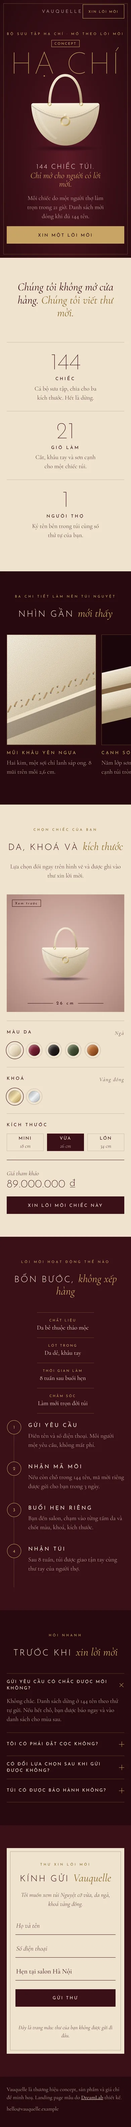
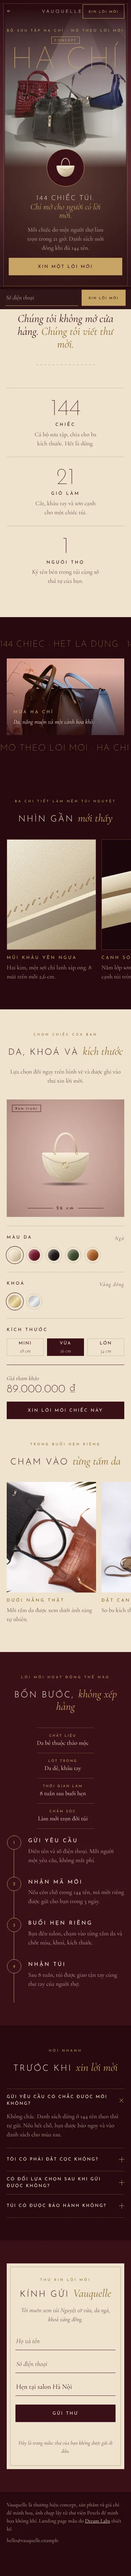
Landing Vauquelle: hero màn nhung mở ảnh thật, cảnh phóng ảnh toàn màn hình, khối ảnh buổi hẹn
Claude-Session: https://claude.ai/code/session_012QLWn7rvRysGvRwdv6upwG

diff --git a/demos/lux-lp-vauquelle.html b/demos/lux-lp-vauquelle.html
@@ -59,20 +59,40 @@ header .w{display:grid;grid-template-columns:1fr auto 1fr;align-items:center;hei
 .lg{font-family:var(--fd);font-weight:300;font-size:16px;letter-spacing:.5em;padding:2px 0 0 .5em;min-height:42px;display:flex;align-items:center}
 header .btn{justify-self:end}
 /* hero */
-.hero{position:relative;min-height:min(100svh,960px);padding:110px 0 var(--s6);display:grid;overflow:hidden;background:radial-gradient(ellipse at 50% 61.8%,#5C1A28 0,var(--bx) 46%,var(--bd) 100%)}
-.hero::before{content:"";position:absolute;inset:var(--s3);border:1px solid var(--ln);pointer-events:none;animation:fade var(--d6) var(--ease) .4s both}
-.hero .w{display:grid;grid-template-rows:auto 1fr auto;position:relative}
-.hero .cap{justify-content:center}
-.gw{position:absolute;left:0;right:0;top:6%;text-align:center;font-family:var(--fd);font-weight:100;font-size:clamp(89px,23vw,330px);line-height:1;letter-spacing:.04em;text-transform:uppercase;color:var(--br);opacity:.9;white-space:nowrap;margin:0}
+.hero{position:relative;min-height:max(640px,min(100svh,960px));padding:110px 0 var(--s6);display:grid;overflow:hidden;background:var(--bd);--o:.6;--pd:max(34px,3.4vw);--wi:calc(30vw - var(--pd) - 30px)}
+.hero::before{content:"";position:absolute;inset:var(--s3);border:1px solid var(--ln);pointer-events:none;z-index:3;animation:fade var(--d6) var(--ease) 1.8s both}
+.js .hero:not(.go) *,.hero.off *{animation-play-state:paused!important}
+.st{position:absolute;top:0;bottom:0;left:30vw;right:30vw;overflow:hidden}
+.st div{position:absolute;inset:50px -14px -56px}
+.st img{width:100%;height:100%;object-fit:cover;object-position:50% 72%;animation:kb 9s var(--ease) .4s both}
+.st::after{content:"";position:absolute;inset:0;background:linear-gradient(var(--bd) 5%,rgba(39,9,14,.8) 15%,rgba(58,15,23,.5) 34%,rgba(58,15,23,0) 56%,rgba(39,9,14,0) 89%,var(--bd))}
+@keyframes kb{from{transform:scale(1.16)}}
+.cu{position:absolute;top:0;bottom:0;width:50%;z-index:1;transform:scaleX(var(--o));animation:cu 2.4s cubic-bezier(.76,0,.18,1) .4s both;background:linear-gradient(rgba(18,3,10,.5),rgba(18,3,10,0) 26%,rgba(18,3,10,0) 62%,rgba(18,3,10,.66)),repeating-linear-gradient(90deg,#27090E 0,#4B1523 8%,#30101A 13%,#5C1A28 19%,#27090E 26%)}
+.cu.l{left:0;transform-origin:0 0}.cu.r{right:0;transform-origin:100% 0}
+.cu::after{content:"";position:absolute;top:0;bottom:0;left:100%;width:42px;background:linear-gradient(90deg,rgba(18,3,10,.6),transparent)}
+.cu.r::after{left:auto;right:100%;transform:scaleX(-1)}
+.cu::before{content:"";position:absolute;top:0;bottom:0;right:6px;width:1px;background:repeating-linear-gradient(var(--br) 0 6px,transparent 6px 11px);opacity:.7}
+.cu.r::before{right:auto;left:6px}
+@keyframes cu{from{transform:none}}
+.sl{position:absolute;left:50%;top:60%;width:1100px;height:1100px;margin:-550px;border-radius:50%;z-index:1;pointer-events:none;background:radial-gradient(closest-side,rgba(255,226,176,.24),rgba(255,226,176,.07) 52%,transparent);animation:fade 2.4s ease 1.2s both}
+@media(hover:none){.sl{animation:fade 2.4s ease 1.2s both,sw 11s ease-in-out infinite alternate}}
+@keyframes sw{from{transform:translate3d(-9%,3%,0)}to{transform:translate3d(9%,-4%,0)}}
+.hero .w{max-width:none;padding:0 var(--pd);display:grid;grid-template-rows:auto 1fr auto;position:relative;z-index:2}
+.hero .cap{justify-content:center;animation:fade var(--d6) var(--ease) 1.8s both}
+.gw{position:absolute;left:0;right:0;top:6%;text-align:center;font-family:var(--fd);font-weight:100;font-size:clamp(89px,min(23vw,36vh),330px);line-height:1;letter-spacing:.04em;text-transform:uppercase;color:var(--br);opacity:.9;white-space:nowrap;margin:0}
 .gw span{padding:.14em 0 .2em;margin:-.14em 0 -.2em}
-.bw{grid-row:2;display:grid;place-items:center;min-height:0;padding:var(--s4) 0}
-.bag{width:min(46vw,440px);overflow:visible;--l1:#FBF3E2;--l2:#E6D7BC;--l3:#B19C78;--st:#A8875A;--h1:#8A6A2C;--h2:#F3E2B0;--h3:#A07C3A;animation:rise var(--d6) var(--ease) .262s both,fl 6.86s ease-in-out 2s infinite alternate}
+@keyframes u2{from{transform:translateY(140%)}}
+.gw i{display:inline-block;animation:u2 1.7s var(--ease) calc(1.5s + var(--k,0)*.11s) both}.gw i:nth-child(3){margin-left:.3em}
+.bw{grid-row:2;align-self:end;width:var(--wi);margin-bottom:var(--s4);display:grid;justify-items:center;gap:var(--s3)}
+.bw .cap{justify-content:center}
+.bag{width:min(70%,25vh);overflow:visible;--l1:#FBF3E2;--l2:#E6D7BC;--l3:#B19C78;--st:#A8875A;--h1:#8A6A2C;--h2:#F3E2B0;--h3:#A07C3A;animation:rise var(--d6) var(--ease) 1.9s both,fl 6.86s ease-in-out 3.8s infinite alternate}
 @keyframes rise{from{opacity:0;transform:translateY(68px)}}
 @keyframes fl{to{transform:translateY(-10px) rotate(-.618deg)}}
 .bag .gl{transform-origin:260px 292px;animation:spin 6.86s linear infinite}
 @keyframes spin{to{transform:rotate(360deg)}}
-.hb{display:grid;grid-template-columns:1.618fr 1fr;gap:var(--s5);align-items:end;animation:fade var(--d6) var(--ease) .6s both}
-.hb h1{font-size:clamp(20px,2.6vw,33px);max-width:20ch}
+.hb{grid-row:3;display:grid;grid-template-columns:var(--wi) 1fr var(--wi);align-items:end;animation:fade var(--d6) var(--ease) 2.1s both}
+.hb div:last-child{grid-column:3}
+.hb h1{font-size:clamp(20px,2vw,33px);max-width:20ch}
 .hb h1 em{display:block}
 .hb div:last-child{justify-self:end;text-align:right;display:grid;gap:var(--s3);justify-items:end}
 .hb p{color:var(--mu);max-width:30ch}
@@ -91,6 +111,21 @@ h2{font-size:clamp(26px,3.6vw,42px);max-width:22ch}
 .nb div{padding:var(--s4) var(--s3) 0;text-align:center}.nb div+div{border-left:1px solid var(--ln)}
 .nb b{display:block;font-family:var(--fd);font-weight:100;font-size:clamp(68px,9vw,110px);line-height:1.1}
 .nb .u{display:block;margin-bottom:var(--s1)}.nb p{color:var(--mu);max-width:24ch;margin:0 auto}
+.stc{display:block;height:1px;width:min(178px,50%);margin:var(--s5) auto 0;background:repeating-linear-gradient(90deg,var(--br) 0 7px,transparent 7px 12px)}
+/* zoom */
+.zm{background:var(--bd);padding:var(--s6) 0}
+.zs{display:flex;flex-direction:column;gap:var(--s4)}
+.zt{font-family:var(--fd);font-weight:100;text-transform:uppercase;letter-spacing:.06em;color:var(--br);white-space:nowrap;overflow:hidden;font-size:clamp(26px,5vw,68px);line-height:1.1}
+.zt.b{order:2}
+.zf{order:1;position:relative;width:min(100% - 40px,1280px);margin:0 auto;aspect-ratio:1.537;overflow:hidden}
+.zf img{width:100%;height:100%;object-fit:cover}
+.zf figcaption{position:absolute;left:0;right:0;bottom:0;padding:var(--s7) max(20px,4.4vw) var(--s4);display:flex;flex-wrap:wrap;gap:var(--s1) var(--s3);align-items:baseline;justify-content:space-between;background:linear-gradient(transparent,rgba(39,9,14,.8));font-style:italic}
+.zf .u{font-style:normal;color:var(--br)}
+.mo .zm{padding:0;height:240vh;height:240svh}
+.mo .zs{display:block;position:sticky;top:0;height:100vh;height:100svh;overflow:hidden}
+.mo .zt{position:absolute;left:0;top:50%;overflow:visible;font-size:clamp(68px,15vw,230px);line-height:1;will-change:transform}
+.mo .zf{position:absolute;inset:0;width:auto;aspect-ratio:auto;will-change:transform,clip-path}
+.mo .zf img{will-change:transform}
 /* details */
 .dt{display:grid;grid-template-columns:repeat(3,1fr);gap:var(--s4);--l1:#9A3347;--l2:#6E1B2D;--l3:#3F0C18;--st:#E3C9A0;--h1:#8A6A2C;--h2:#F3E2B0;--h3:#A07C3A}
 .dt figure:nth-child(2){margin-top:var(--s6)}.dt figure:nth-child(3){margin-top:var(--s4)}
@@ -117,10 +152,17 @@ h2{font-size:clamp(26px,3.6vw,42px);max-width:22ch}
 .tot{padding-top:var(--s4);border-top:1px solid var(--bx);display:grid;gap:var(--s3)}
 .tot strong{display:block;font-style:normal;color:var(--bx);font-family:var(--fd);font-weight:200;font-size:clamp(33px,3.8vw,53px);line-height:1.2;letter-spacing:.02em;font-variant-numeric:tabular-nums}
 .tot p{color:var(--mu);font-style:italic}
+.s2{margin:var(--s7) 0 var(--s5)}
+.ap{display:grid;grid-template-columns:1.618fr 1fr 1fr;gap:var(--s4);align-items:start}
+.ap figure:nth-child(2){margin-top:var(--s6)}.ap figure:nth-child(3){margin-top:var(--s4)}
+.ap .fr{position:relative;overflow:hidden;aspect-ratio:1/1.236}.ap figure:first-child .fr{aspect-ratio:1.236/1}
+.ap img{position:absolute;left:0;top:-9%;width:100%;height:118%;object-fit:cover}
+.ap figcaption{padding-top:var(--s3)}.ap figcaption .u{color:var(--br);display:block;margin-bottom:var(--s1)}.ap figcaption p{color:var(--mu)}
 /* process */
 .pg{display:grid;grid-template-columns:1fr 1.618fr;gap:var(--s6);align-items:start}
 .pg .sh{text-align:left;justify-items:start;position:sticky;top:110px;margin:0}
-.tl{border-left:1px solid var(--ln);counter-reset:s}
+.tl{border-left:1px solid var(--ln);counter-reset:s;position:relative}
+.tl::before{content:"";position:absolute;left:-1px;top:0;bottom:0;width:1px;background:var(--br);transform-origin:0 0;transform:scaleY(var(--tp,1))}
 .tl li{counter-increment:s;position:relative;padding:0 0 var(--s5) var(--s5)}
 .tl li::before{content:counter(s);position:absolute;left:-21px;top:-6px;width:42px;height:42px;border-radius:50%;border:1px solid var(--br);background:var(--bx);display:grid;place-items:center;font-family:var(--fd);font-size:13px;padding-top:2px;color:var(--br)}
 .tl h3{font-size:16px;letter-spacing:.24em;font-weight:400;margin-bottom:var(--s1)}.tl p{color:var(--mu);max-width:42ch}
@@ -152,14 +194,24 @@ footer .w{display:flex;flex-wrap:wrap;justify-content:space-between;gap:var(--s2
 .stk input{background:none;border:0;border-bottom:1px solid var(--br);color:var(--cr);padding:0 2px;outline:0;font-size:18px}.stk input::placeholder{color:var(--mu);font-style:italic}
 .stk button{font-family:var(--fd);background:var(--br);color:var(--bd);font-size:10px;letter-spacing:.24em;text-transform:uppercase;padding-top:2px}
 .stk .msg{background:var(--br);color:var(--bd)}
+@media(max-width:1099px){
+.hero{--o:.4;--sh:min(128vw,70svh);--pd:max(26px,4.4vw);display:block;min-height:0;padding:0 0 var(--s5)}
+.st{left:20vw;right:20vw;bottom:auto;height:var(--sh)}.st div{inset:-14px}
+.hero .w{display:block;padding-top:calc(var(--sh) + 78px)}
+.hero .w>.cap{position:absolute;left:0;right:0;top:84px}.gw{top:136px}
+.bw{position:absolute;left:50%;top:calc(var(--sh) - 56px);width:112px;height:112px;margin:0 0 0 -56px;border-radius:50%;background:var(--bx);border:1px solid var(--br);align-content:center}.bw .cap{display:none}.bag{width:70px}
+.hb{grid-template-columns:1fr;gap:var(--s3);text-align:center;justify-items:center}.hb div:last-child{grid-column:1;justify-self:center;text-align:center;justify-items:center;width:100%}.hb .btn{width:100%;max-width:420px}
+}
+@media(min-width:700px) and (max-width:1099px) and (orientation:landscape){.hero{--o:.54}.st{left:27vw;right:27vw}.st img{object-position:50% 50%}}
+@media(max-width:699px){.hero{--o:.07}.st{left:0;right:0}.st img{object-position:50% 100%}.st div{inset:-14px -14px -44px}}
 @media(max-width:860px){
 body{font-size:18px}.btn{padding:2px var(--s3) 0;letter-spacing:.24em}.hero::before{inset:var(--s2)}
-.hero{padding:94px 0 var(--s5);min-height:0}.gw{top:9%}.bag{width:68vw}.bw{padding:var(--s6) 0 var(--s4)}
-.hb{grid-template-columns:1fr;gap:var(--s3);text-align:center;justify-items:center}.hb div:last-child{justify-self:center;text-align:center;justify-items:center;width:100%}.hb .btn{width:100%}.hb h1{font-size:20px}
+.hb h1{font-size:20px}.mo .zm{height:200vh;height:200svh}.s2{margin-top:var(--s6)}
 .sec{padding:var(--s6) 0}.sh{margin-bottom:var(--s5)}
 .nb{grid-template-columns:1fr}.nb div{padding:var(--s4) 0}.nb div+div{border-left:0;border-top:1px solid var(--ln)}
-.dt{display:flex;overflow-x:auto;scroll-snap-type:x mandatory;margin:0 calc(-1*max(20px,4.4vw));padding:0 max(20px,4.4vw) var(--s3);gap:var(--s3);scrollbar-width:none}.dt::-webkit-scrollbar{display:none}
-.dt figure{flex:0 0 76%;scroll-snap-align:center;margin-top:0!important;opacity:1!important;transform:none!important}
+.dt,.ap{display:flex;overflow-x:auto;scroll-snap-type:x mandatory;margin:0 calc(-1*max(20px,4.4vw));padding:0 max(20px,4.4vw) var(--s3);gap:var(--s3);scrollbar-width:none}.dt::-webkit-scrollbar,.ap::-webkit-scrollbar{display:none}
+.dt figure,.ap figure{flex:0 0 76%;scroll-snap-align:center;margin-top:0!important;opacity:1!important;transform:none!important}
+.ap .fr{aspect-ratio:1/1.236!important;clip-path:none!important}.ap img{transform:none!important}
 .ch,.pg{grid-template-columns:1fr;gap:var(--s4)}.pg .sh{position:static;text-align:center;justify-items:center}
 .stg{aspect-ratio:1/1}.tl{margin-left:21px}.sp{grid-template-columns:1fr}
 .card{padding:var(--s5) var(--s4)}.card form{grid-template-columns:1fr}
@@ -171,9 +223,9 @@ footer{padding-bottom:94px}
 <body>
 <header><div class="w"><a class="bk" href="../index.html" target="_top" aria-label="Quay lại Dream Labs">←&nbsp;<span>Dream Labs</span></a><a class="lg" href="#top">VAUQUELLE</a><a class="btn o" href="#dk">Xin lời mời</a></div></header>
 <main id="top">
-<section class="hero"><div class="w">
+<section class="hero"><div class="st"><div><img src="../img/sm-web-ph-tui-xach-7953286.webp" width="1067" height="1600" fetchpriority="high" decoding="async" alt="Ba chiếc túi da màu đỏ rượu, đen và xanh chàm đặt trên bục trước phông xám hình học"></div></div><i class="cu l"></i><i class="cu r"></i><i class="sl"></i><div class="w">
  <p class="cap">Bộ sưu tập Hạ Chí · mở theo lời mời <span class="tc">Concept</span></p>
- <p class="gw h1" aria-hidden="true" data-p="-.1"><span><i>Hạ Chí</i></span></p>
+ <p class="gw h1" aria-hidden="true" data-p="-.1"><span><i>H</i><i style="--k:1">ạ</i><i style="--k:2">C</i><i style="--k:3">h</i><i style="--k:4">í</i></span></p>
  <div class="bw">
   <svg class="bag" id="b0" viewBox="0 0 520 490" role="img" aria-label="Túi Nguyệt của Vauquelle, hình vẽ bằng SVG">
    <defs>
@@ -198,6 +250,7 @@ footer{padding-bottom:94px}
    <circle class="gl" cx="260" cy="304" r="24" fill="none" stroke="#fff" stroke-opacity=".7" stroke-width="2" stroke-dasharray="16 135" stroke-linecap="round"/>
    <circle cx="168" cy="204" r="9" fill="none" stroke="url(#gH)" stroke-width="4.5"/><circle cx="352" cy="204" r="9" fill="none" stroke="url(#gH)" stroke-width="4.5"/>
   </svg>
+  <p class="cap">Túi Nguyệt · bản vẽ</p>
  </div>
  <div class="hb">
   <h1>144 chiếc túi. <em>Chỉ mở cho người có lời mời.</em></h1>
@@ -207,11 +260,18 @@ footer{padding-bottom:94px}
 
 <section class="sec lt mf"><div class="w">
  <blockquote data-r>Chúng tôi không mở cửa hàng. <span>Chúng tôi viết thư mời.</span></blockquote>
+ <i class="stc" data-r="wipe"></i>
  <div class="nb">
   <div data-r><b data-n="144">144</b><span class="u">chiếc</span><p>Cả bộ sưu tập, chia cho ba kích thước. Hết là dừng.</p></div>
   <div data-r style="--i:1"><b data-n="21">21</b><span class="u">giờ làm</span><p>Cắt, khâu tay và sơn cạnh cho một chiếc túi.</p></div>
   <div data-r style="--i:2"><b data-n="1">1</b><span class="u">người thợ</span><p>Ký tên bên trong túi cùng số thứ tự của bạn.</p></div>
  </div>
+</div></section>
+
+<section class="zm" aria-label="Ảnh không khí bộ sưu tập Hạ Chí"><!--PH-zoom--><div class="zs">
+ <p class="zt a" aria-hidden="true">144 chiếc · Hết là dừng · 144 chiếc · Hết là dừng · 144 chiếc · Hết là dừng ·</p>
+ <p class="zt b" aria-hidden="true">Mở theo lời mời · Hạ Chí · Mở theo lời mời · Hạ Chí · Mở theo lời mời · Hạ Chí ·</p>
+ <figure class="zf"><img src="../img/photo/tui-xach-23223837-xl.webp" width="2400" height="1561" loading="lazy" decoding="async" alt="Cận cảnh hai chiếc túi da màu ô liu và xanh nhạt trên nền hồng đất"><figcaption><span class="u">Mùa Hạ Chí</span><span>Da, nắng muộn và một cành hoa khô.</span></figcaption></figure>
 </div></section>
 
 <section class="sec dp" id="chi-tiet"><div class="w">
@@ -233,6 +293,12 @@ footer{padding-bottom:94px}
    <div class="gp"><p class="u">Kích thước</p><div class="sz" id="ssz"></div></div>
    <div class="tot"><p>Giá tham khảo<strong><span id="pr">89.000.000</span> ₫</strong></p><a class="btn" href="#dk">Xin lời mời chiếc này</a></div>
   </div>
+ </div>
+ <div class="sh s2"><p class="cap">Trong buổi hẹn riêng</p><h2 data-r>Chạm vào <em>từng tấm da</em></h2></div>
+ <div class="ap"><!--PH-ap-->
+  <figure><div class="fr" data-r="clip"><img data-p=".05" src="../img/photo/tui-xach-27046146.webp" width="1600" height="1600" loading="lazy" decoding="async" alt="Hai chiếc túi da vân cá sấu màu đen và nâu nằm trên nền trắng, có bóng lá cọ"></div><figcaption><span class="u">Dưới nắng thật</span><p>Mỗi tấm da được xem dưới ánh sáng tự nhiên.</p></figcaption></figure>
+  <figure><div class="fr" data-r="clip" style="--i:1"><img data-p=".05" src="../img/photo/tui-xach-22434775.webp" width="1132" height="1600" loading="lazy" decoding="async" alt="Ba chiếc túi da vân nổi màu xám, nâu cam và be xếp chồng trên nền sáng"></div><figcaption><span class="u">Đặt cạnh nhau</span><p>So ba kích thước ngay trên bàn.</p></figcaption></figure>
+  <figure><div class="fr" data-r="clip" style="--i:2"><img data-p=".05" src="../img/sm-web-ph-tui-xach-27100522.webp" width="1600" height="1600" loading="lazy" decoding="async" alt="Túi da màu ô liu quai trắng đặt trên bục, nền tím nhạt"></div><figcaption><span class="u">Đeo thử</span><p>Chỉnh dây vừa vai trước khi chốt.</p></figcaption></figure>
  </div>
 </div></section>
 
@@ -270,7 +336,7 @@ footer{padding-bottom:94px}
  <p class="nt2">Đây là trang mẫu: thư của bạn không được gửi đi đâu.</p>
 </div></div></section>
 </main>
-<footer><div class="w"><span>Vauquelle là thương hiệu concept, sản phẩm và giá chỉ để minh hoạ. Landing page mẫu do <a href="../index.html" target="_top">Dream Labs</a> thiết kế.</span><span>hello@vauquelle.example</span></div></footer>
+<footer><div class="w"><span>Vauquelle là thương hiệu concept, sản phẩm và giá chỉ để minh hoạ, ảnh chụp lấy từ thư viện Pexels để minh họa không khí. Landing page mẫu do <a href="../index.html" target="_top">Dream Labs</a> thiết kế.</span><span>hello@vauquelle.example</span></div></footer>
 <form class="stk" novalidate data-ok="Đã ghi số của bạn. Trang mẫu nên chưa gửi đi đâu."><p class="msg" role="status"></p><label class="vh" for="s1">Số điện thoại</label><input id="s1" type="tel" required placeholder="Số điện thoại"><button>Xin lời mời</button></form>
 <script>
 (()=>{
@@ -303,6 +369,23 @@ const up=()=>{const l=L[S.l],h=HW[S.h],z=SZ[S.z];
 $('#chon').addEventListener('click',e=>{const o=e.target.closest('[data-g]');if(o){S[o.dataset.g]=+o.dataset.v;up()}});
 $('#pr')._v=89e6;up();
 watch(D);
+const cl=(v,a=0,b=1)=>Math.min(b,Math.max(a,v)),IO=(el,fn)=>new IntersectionObserver(e=>fn(e[0].isIntersecting)).observe(el);
+const he=$('.hero'),hi=$('.st img'),go=()=>he.classList.add('go');hi.complete?go():(hi.onload=hi.onerror=go,setTimeout(go,2600));
+if(!RM&&'IntersectionObserver' in window){
+ const sl=$('.sl'),sd=$('.st div');let tx=0,ty=0,cx=0,cy=0,rf=0,vis=1,hh=he.offsetHeight;
+ const run=()=>{cx+=(tx-cx)*.05;cy+=(ty-cy)*.05;sl.style.transform=`translate3d(${(cx*innerWidth*.5).toFixed(1)}px,${(cy*hh*.5).toFixed(1)}px,0)`;sd.style.transform=`translate3d(${(-cx*12).toFixed(1)}px,${(-cy*8).toFixed(1)}px,0)`;rf=vis&&Math.abs(tx-cx)+Math.abs(ty-cy)>.002?requestAnimationFrame(run):0};
+ if(matchMedia('(hover:hover)').matches)he.addEventListener('pointermove',e=>{const r=he.getBoundingClientRect();hh=r.height;tx=(e.clientX-r.left)/r.width*2-1;ty=(e.clientY-r.top)/r.height*2-1.2;rf||(rf=requestAnimationFrame(run))});
+ IO(he,v=>{vis=v;he.classList.toggle('off',!v)});
+ const zm=$('.zm'),zs=$('.zs'),zf=$('.zf'),zi=$('img',zf),zc=$('figcaption',zf),za=$('.zt.a'),zb=$('.zt.b'),E=t=>t<.5?4*t*t*t:1-Math.pow(2-2*t,3)/2;let zp=0,zo=0,zr=0,zt=0;H.classList.add('mo');
+ const fr=n=>{const r=zm.getBoundingClientRect(),vh=zs.offsetHeight,t=cl(-r.top/(r.height-vh)),pre=cl(1-r.top/vh),m=innerWidth<861,s0=m?.56:.36;
+  zp+=(t-zp)*(1-Math.pow(.86,cl((n-zt)/16.7||1,1,12)));zt=n;if(Math.abs(t-zp)<5e-4)zp=t;const e=E(cl(zp/.74)),c=(1-e)*(m?9:27),x=(pre*.4+zp)*16;
+  zf.style.transform=`scale(${(s0+(1-s0)*e).toFixed(4)})`;zf.style.clipPath=m?`inset(${c.toFixed(2)}% 0)`:`inset(0 ${c.toFixed(2)}%)`;zi.style.transform=`scale(${(1.3-.3*e).toFixed(4)})`;
+  za.style.transform=`translate3d(${(-x).toFixed(2)}%,-104%,0)`;zb.style.transform=`translate3d(${(x-34).toFixed(2)}%,6%,0)`;zc.style.opacity=cl((zp-.8)/.16).toFixed(2);
+  zr=zo||zp!==t?requestAnimationFrame(fr):0};
+ fr();IO(zm,v=>{zo=v;v&&!zr&&(zr=requestAnimationFrame(fr))});
+ const tl=$('.tl');let tr=0;const tf=()=>{tr=0;const r=tl.getBoundingClientRect();tl.style.setProperty('--tp',cl((innerHeight*.72-r.top)/r.height).toFixed(3))};
+ tf();addEventListener('scroll',()=>{tr||(tr=requestAnimationFrame(tf))},{passive:true});
+}
 })();
 </script>
 </body>
